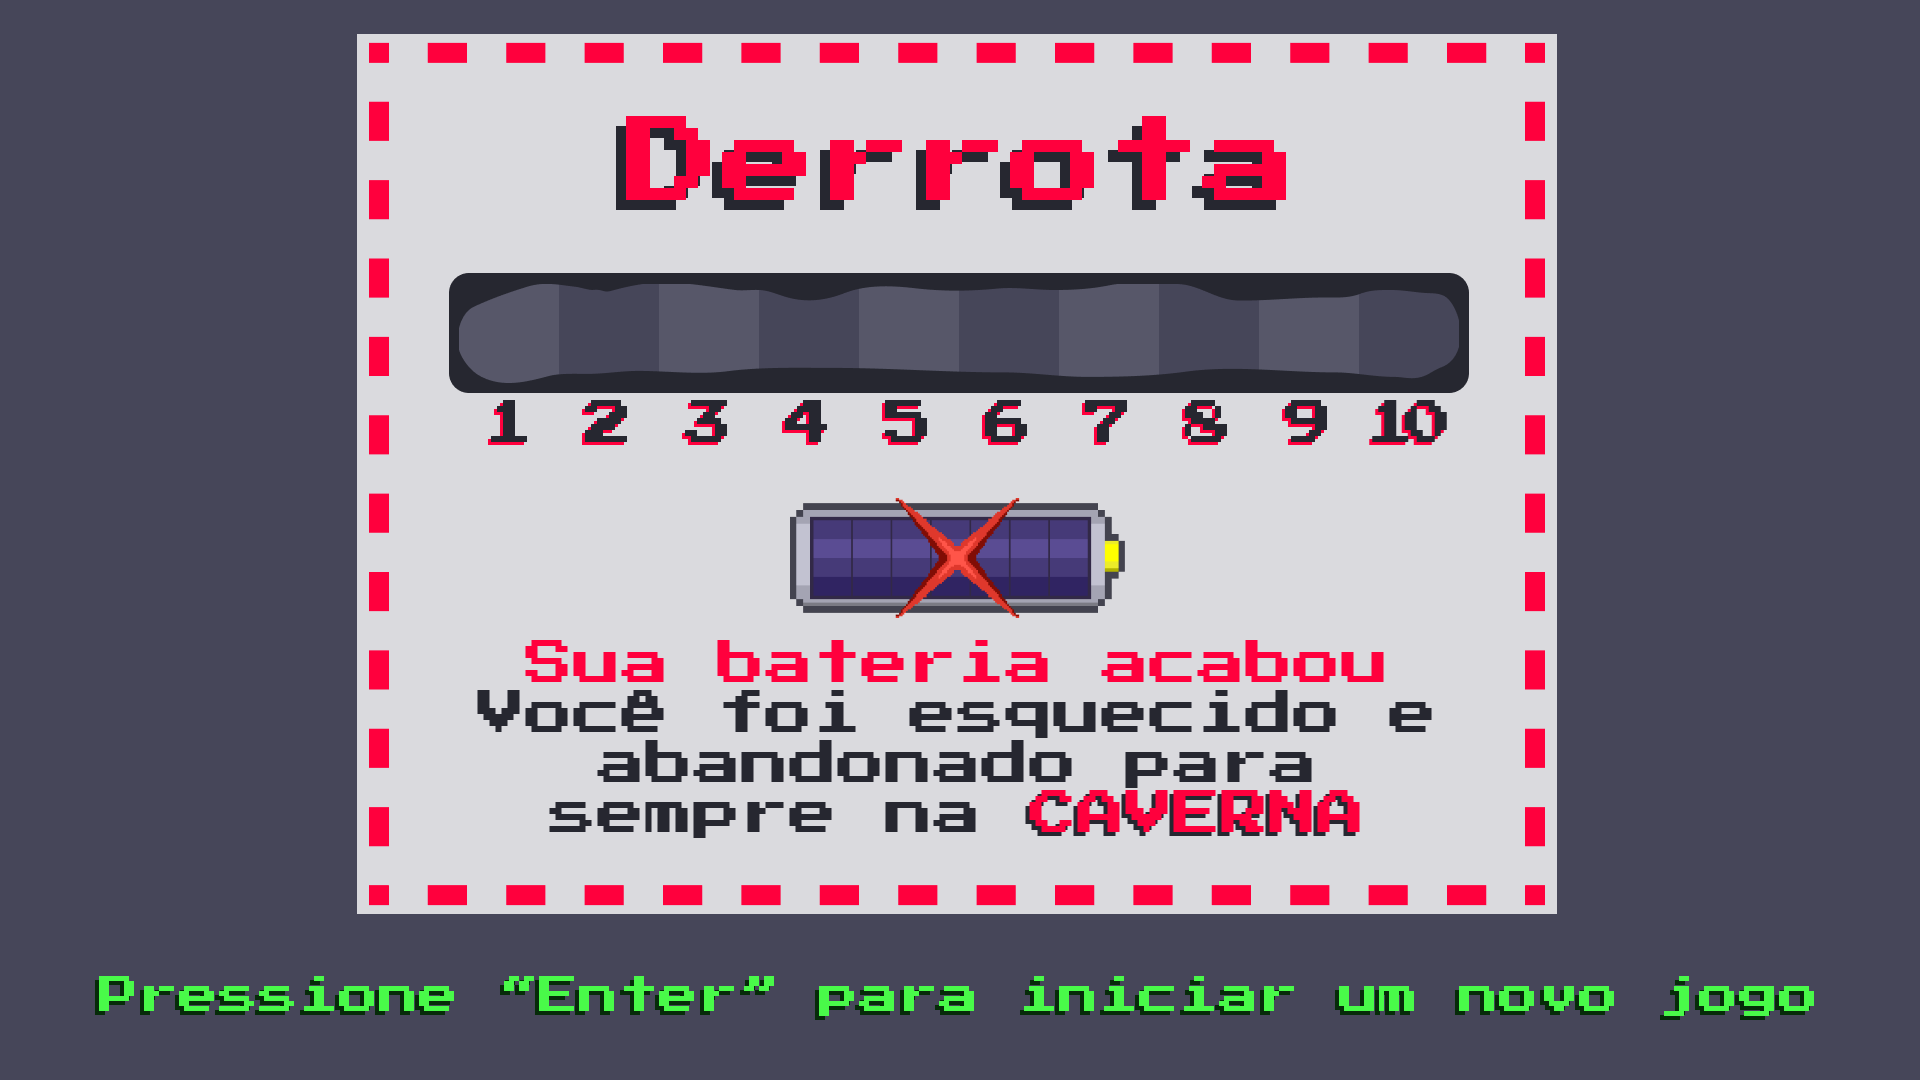
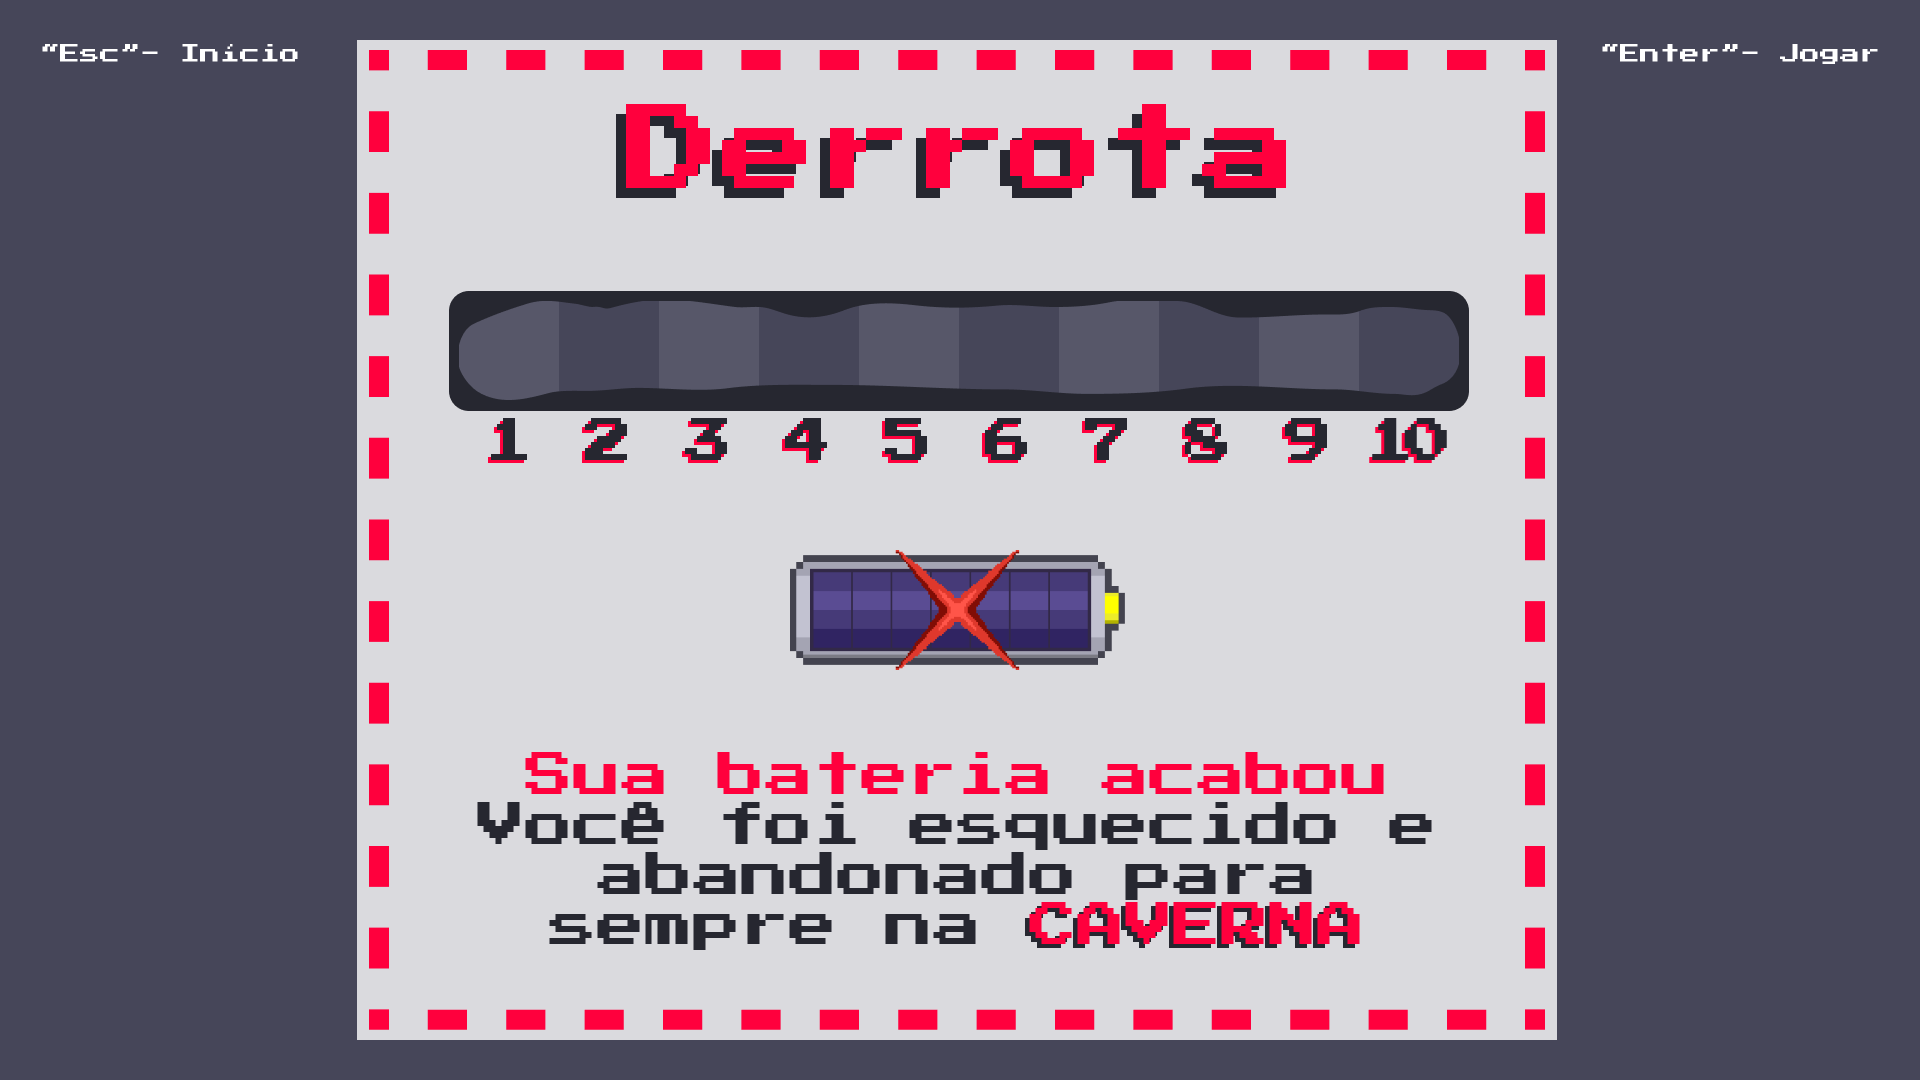
GameOverScreen Official

diff --git a/EscapeTheCave/GameOver.cpp b/EscapeTheCave/GameOver.cpp
@@ -1,20 +1,27 @@
 #include "Engine.h"
 #include "GameOver.h"
+#include "GameLevel.h"
 #include "Home.h"
 
 void GameOver::Init() {
-    backg = new Sprite("Resources/GameOverScreen.jpg");
+    backg = new Sprite("Resources/GameOverScreen.png");
+    XKV8_4_Off = new Sprite("Resources/XKV8-4_Off.png");
 }
 
 void GameOver::Finalize() {
     delete backg;
+    delete XKV8_4_Off;
 }
 
 void GameOver::Update() {
-    if (window->KeyPress(VK_ESCAPE)) window->Close();
-    if (window->KeyPress(VK_RETURN)) Engine::Next<Home>();
+    if (window->KeyPress(VK_ESCAPE)) Engine::Next<Home>();
+    if (window->KeyPress(VK_RETURN)) {
+        level = 0;
+        Engine::Next<GameLevel>();
+    }
 }
 
 void GameOver::Draw() {
     backg->Draw(window->CenterX(), window->CenterY(), Layer::BACK);
+    XKV8_4_Off->Draw(348.0f + (XKV8_4_Off->Width() / 2) + (100 * level), 260.0f + (XKV8_4_Off->Width() / 2), Layer::FRONT);
 }

diff --git a/EscapeTheCave/Home.cpp b/EscapeTheCave/Home.cpp
@@ -2,6 +2,7 @@
 #include "Home.h"
 #include "Help.h"
 #include "GameLevel.h"
+#include "GameOver.h"
 
 void Home::Init() {
     backg = new Sprite("Resources/TitleScreen.png");
@@ -16,6 +17,7 @@ void Home::Update() {
     if (window->KeyPress(VK_ESCAPE)) window->Close();
     if (window->KeyPress(VK_RETURN)) Engine::Next<GameLevel>();
     if (window->KeyPress('H')) Engine::Next<Help>();
+    if (window->KeyPress('J')) Engine::Next<GameOver>();
 }
 
 void Home::Draw() {

diff --git a/EscapeTheCave/GameOver.h b/EscapeTheCave/GameOver.h
@@ -7,6 +7,7 @@
 class GameOver : public Game {
     private:
         Sprite * backg = nullptr;
+        Sprite * XKV8_4_Off = nullptr;
     public:
         void Init();
         void Update();
